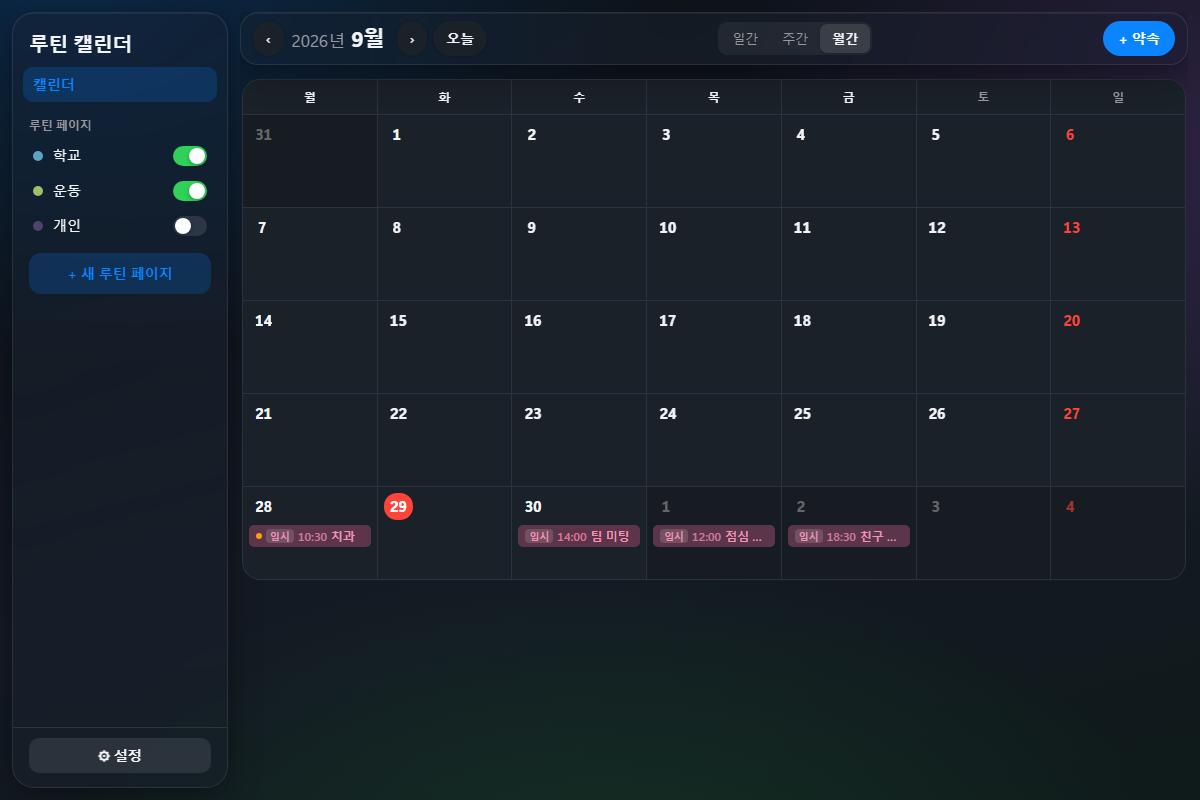
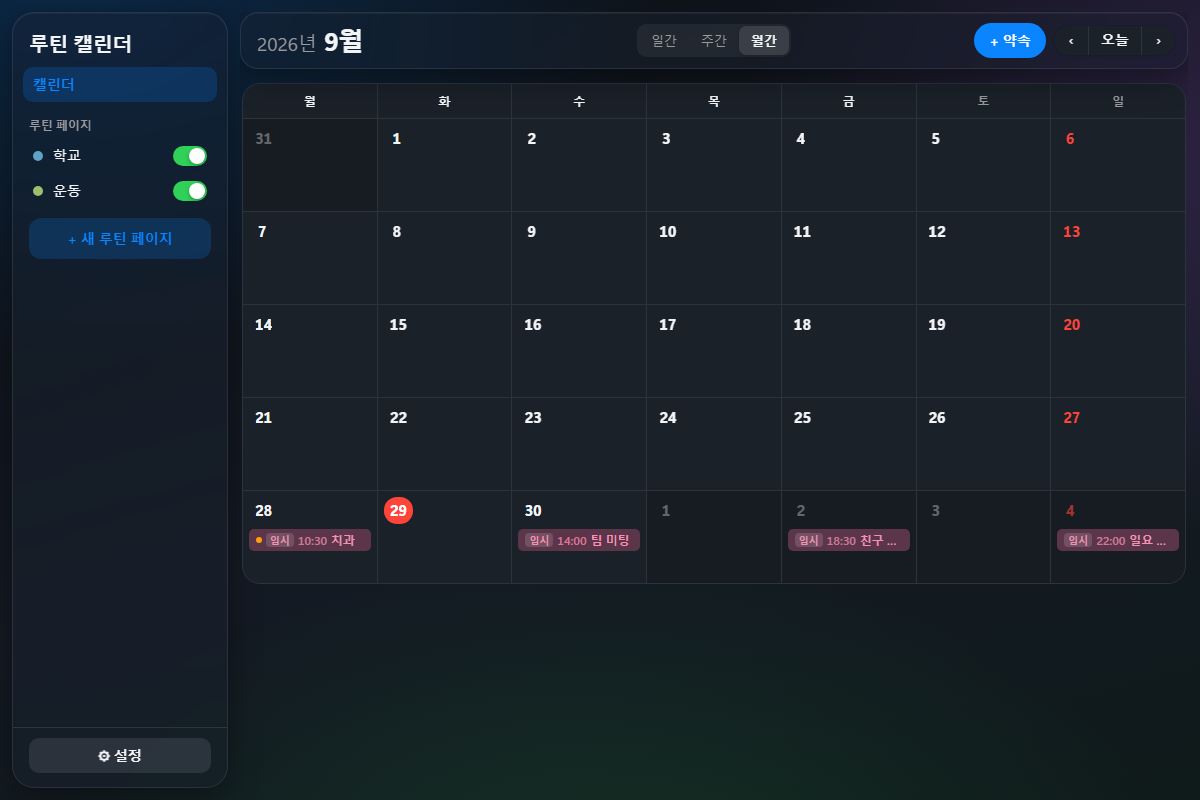
Top bar like macOS Calendar: big title left, view segment centered, ‹ 오늘 › group right
- 캘린더 상단바를 calBar() 하나로: grid 1fr auto 1fr. 왼쪽 큰 제목(월간 "2026년 10월", 주간은 그 주가 속한 달 "2026년 9월" / 두 달에 걸치면 "2026년 9월–10월", 일간 "10월 1일 수요일"), 가운데 일간/주간/월간, 오른쪽 ‹ 오늘 › 묶음(+ 약속은 그 왼쪽). 제목 길이와 무관하게 세그먼트 정중앙·화살표 오른쪽 끝 고정
- 주간 버튼 이름 "이번 주" → "오늘". 동작 변경 없음
- docs/design-review.md 4차 절, 스크린샷 갱신

diff --git a/styles.css b/styles.css
@@ -373,7 +373,7 @@ button[disabled]:active{transform:none}
 @media (prefers-color-scheme: dark){:root:not([data-theme="light"]) .mgrid .ev{--tint:30%;color:color-mix(in srgb,var(--ec) 70%,#fff)}:root:not([data-theme="light"]) .mgrid .ev .tag{background:rgba(255,255,255,.14)}:root:not([data-theme="light"]) .blk.evb{box-shadow:inset 3px 0 0 rgba(255,255,255,.3)}:root:not([data-theme="light"]) .blk.evb.cf{box-shadow:inset 3px 0 0 rgba(255,255,255,.3),inset 0 0 0 2px var(--warn)}}
 :root[data-theme="dark"] .mgrid .ev{--tint:30%;color:color-mix(in srgb,var(--ec) 70%,#fff)}:root[data-theme="dark"] .mgrid .ev .tag{background:rgba(255,255,255,.14)}:root[data-theme="dark"] .blk.evb{box-shadow:inset 3px 0 0 rgba(255,255,255,.3)}:root[data-theme="dark"] .blk.evb.cf{box-shadow:inset 3px 0 0 rgba(255,255,255,.3),inset 0 0 0 2px var(--warn)}
 
-/* 3차: 상단바는 [오늘][‹ ›] 제목 — ‹ › 한 쌍을 왼쪽에 고정하고 제목을 그 옆에(제목 길이가 바뀌어도 화살표 자리 불변). 약속 추가·편집은 데스크톱 폭에서 팝오버(기준점 옆, 화살표, 360px, 딤 없음) */
+/* 3차: 약속 추가·편집은 데스크톱 폭에서 팝오버(기준점 옆, 화살표, 360px, 딤 없음). 상단바 ‹ 오늘 › 묶음은 .navpair (4차 참고) */
 .bar .navpair{display:inline-flex;align-items:stretch;flex:none;background:var(--panel);border-radius:999px;box-shadow:0 1px 2px rgba(0,0,0,.08),0 0 0 1px rgba(0,0,0,.05);overflow:hidden}
 .bar .navpair button{background:transparent;box-shadow:none;border:0;border-radius:0;padding:6px 11px;min-width:34px;font-weight:600;font-size:14px;line-height:1.2;color:var(--ink)}
 .bar .navpair button+button{border-left:1px solid var(--grid-line)}
@@ -386,3 +386,11 @@ button[disabled]:active{transform:none}
 .md.pop .arrow{position:absolute;width:12px;height:12px;background:var(--panel);border:1px solid var(--line);transform:rotate(45deg);pointer-events:none}
 .md.pop[data-side="right"] .arrow{left:-7px;border-top:none;border-right:none}
 .md.pop[data-side="left"] .arrow{right:-7px;border-bottom:none;border-left:none}
+
+/* 4차: 캘린더 상단바(macOS): 왼쪽 큰 제목 · 가운데 세그먼트 · 오른쪽 ‹ 오늘 › 묶음(+ 약속은 그 왼쪽). grid 1fr auto 1fr 이라 제목 길이가 바뀌어도 세그먼트는 정중앙, 묶음은 오른쪽 끝 고정 */
+.bar.cal{display:grid;grid-template-columns:1fr auto 1fr;align-items:center;gap:8px}
+.bar.cal .bl{min-width:0;display:flex;align-items:center}
+.bar.cal .br{display:flex;align-items:center;justify-content:flex-end;gap:8px}
+.bar.cal h2{font-size:26px;margin:0 0 0 4px;overflow:hidden;text-overflow:ellipsis}
+.bar.cal h2 .yr{font-size:19px}
+.bar .navpair button.today{padding:6px 12px}

diff --git a/CLAUDE.md b/CLAUDE.md
@@ -108,7 +108,7 @@
 
 ## 룩 · 모션 (docs/ref 참고 이미지 기준)
 
-- 룩: iOS 이미지 = 컴포넌트(세그먼트·토글·알약 버튼·그룹 리스트 설정·굵은 제목), macOS 이미지 = 레이아웃(사이드바 216px, 헤더의 요일 작게 + 날짜 굵게, 오늘 빨간 원, 현재 시각 빨간 선 + 시각 pill, 작은 모서리·촘촘한 블록 여백, 긴 약속 블록엔 시간 줄). 상단바는 `[오늘/이번 주][‹ ›] 제목` 순서(`.navpair` 에 ‹ › 를 붙여 둠)라 제목 길이가 바뀌어도 화살표 자리가 고정된다. 규칙은 `styles.css` 맨 아래 "iOS / macOS 룩" 절에 모아 두었다(뒤에 와서 앞 규칙을 덮어씀)
+- 룩: iOS 이미지 = 컴포넌트(세그먼트·토글·알약 버튼·그룹 리스트 설정·굵은 제목), macOS 이미지 = 레이아웃(사이드바 216px, 헤더의 요일 작게 + 날짜 굵게, 오늘 빨간 원, 현재 시각 빨간 선 + 시각 pill, 작은 모서리·촘촘한 블록 여백, 긴 약속 블록엔 시간 줄). 캘린더 상단바(`calBar()`, `.bar.cal`)는 macOS 식 grid `1fr auto 1fr`: 왼쪽 큰 제목(월간 `2026년 10월`, 주간은 그 주가 속한 달 `2026년 9월`, 두 달에 걸치면 `2026년 9월–10월`(연도는 주 시작일), 일간 `10월 1일 수요일`), 가운데 일간/주간/월간 세그먼트, 오른쪽 `‹ 오늘 ›` 한 묶음(`.navpair`, 세 뷰 모두 버튼 이름은 오늘)과 그 왼쪽의 + 약속(월간·일간). 제목 길이가 바뀌어도 세그먼트는 정중앙, 화살표는 오른쪽 끝에 고정. 범례 칩은 그리드 위 왼쪽. 규칙은 `styles.css` 맨 아래 "iOS / macOS 룩" 절에 모아 두었다(뒤에 와서 앞 규칙을 덮어씀)
 - 월간 칩은 `eventStyle('chip')` 이 `--ec`(약속 색)만 넘기고 CSS 가 `color-mix` 로 옅은 배경(라이트 16%, 다크 30%) + 진한 글자를 만든다(iOS 칩). 시간축 뷰의 약속 블록은 채움 + 3px 왼쪽 띠(`inset box-shadow`). 월간 요일 헤더는 평일 진하게, `.we`(토·일) 흐리게
 - 모션은 의존성 없이 Web Animations API 로 구현(`anim()`). 스프링은 감쇠 진동(ζ=1−bounce, ω=2π: 정규화 시간 1 에서 안착)을 `linear()` 이징으로 32점 샘플링(`springEasing(bounce)`), 각 150~250ms. `prefers-reduced-motion` 이면 `anim()` 이 즉시 최종 상태를 적용한다. `anim()` 은 `finished` 와 `duration+40ms` 타이머 중 먼저 끝나는 쪽으로 resolve 한다(애니메이션 클록이 멈춘 환경에서도 제거 등 후속 작업 보장)
   - 뷰 전환(`transitionMain`): `render()` 에서 `viewKey`(일/주/월/페이지)가 바뀔 때만 나가는 `.main` 을 `.leaving` 으로 겹쳐 페이드아웃 + 새 화면 페이드인/8px 슬라이드. ‹ › 이동은 즉시
@@ -163,8 +163,8 @@
 
 1. **상태 · 충돌 로직**: 상수(`KEY`, `DAYS`, `PCOL`), 유틸(`toMin`, `fromMin`, `ymd`, `wd`, `overlap`…), `load`/`save`, `applyTheme`, 설정 기본값(`SETTINGS_DEFAULTS`, `cfg`, `dayOrder`, `weekStartOf`), 백업 검증·합치기(`validateBackup`, `mergeBackup`), 구글 연동(`G`, `googleConnect`/`googleDisconnect`, `ensureGoogleEvents`, `toLocalEvent`), `view` 상태, `activeItems`/`eventConflicts`/`pageConflicts`
 2. **렌더링**: `render()` 가 `#app` 을 통째로 다시 그린다. `h()` 로 DOM 생성. 사이드바(`캘린더` 항목 하나 + 루틴 페이지 목록 + 하단 고정 ⚙ 설정), 월간, 주간, 일간, 페이지 편집기, 드래그 그리드, 라벨 편집기
-   - 캘린더 뷰 전환은 상단바 세그먼트(`calSeg()`: 일간/주간/월간, `setCalView()`). 마지막 뷰는 `routine-cal-view` 키에 기억(`lastCalView()`), 백업과 무관
-   - 주간과 일간은 `timeGridBody(dates)` 를 공유한다(7열/1열). 일간(`renderDay`)은 `view.day`(YYYY-MM-DD) 기준으로 ‹ › 하루 이동·오늘·+ 약속. 활성 페이지가 없어도 빈 그리드는 항상 그리고 위에 얇은 `.notice` 한 줄만
+   - 캘린더 뷰 전환은 상단바 세그먼트(`calSeg()`: 일간/주간/월간, `setCalView()`). 세 캘린더 뷰의 상단바는 `calBar(title,{prev,next,today},addBtn)` 하나로 그린다. 마지막 뷰는 `routine-cal-view` 키에 기억(`lastCalView()`), 백업과 무관
+   - 주간과 일간은 `timeGridBody(dates)` 를 공유한다(7열/1열). 일간(`renderDay`)은 `view.day`(YYYY-MM-DD) 기준으로 ‹ › 하루 이동·오늘·+ 약속. 주간의 오늘 버튼은 이번 주로 간다. 활성 페이지가 없어도 빈 그리드는 항상 그리고 위에 얇은 `.notice` 한 줄만
    - 일간·주간의 빈 시간을 드래그하면 약속이 생긴다(편집 그리드와 같은 30분 스냅·고스트, 놓으면 `openEvent(null, 날짜, {startTime,endTime})`). 5px 미만 움직임은 클릭 = 그 슬롯부터 기본 길이. 루틴 블록은 배경(`.blk.rt`, 흐림)이라 그 위에서 시작해도 되고, 약속 블록은 pointerdown 을 막아 클릭하면 편집. 약속 블록의 드래그 이동·리사이즈는 없음
    - 약속 블록·칩은 구글/로컬 구분 없이 설정의 약속 색 하나를 쓴다(시간축 뷰는 채움 + 왼쪽 띠, 월간 칩은 옅은 배경; 툴팁에 [구글] 없음). 미연결 상태의 로컬 약속에만 작은 "임시" 배지. 활성 루틴과 겹치면 월간은 점, 시간축 뷰는 경고색 안쪽 테두리
    - 주간 뷰 겹침 배치(`layoutOverlaps`): 같은 요일에서 겹치는 루틴 블록은 이어져 겹치는 묶음별로 열을 배정해 폭을 n등분(구글 캘린더 방식). 3열 이상이면 라벨을 빼고 title 툴팁만. 겹치지 않는 블록은 기본 폭. 약속 블록은 대상 아님

diff --git a/docs/design-review.md b/docs/design-review.md
@@ -83,9 +83,20 @@
 | 등장 프레임 0·40·80·120ms | [motion-popover-light](shots/motion-popover-light.png) |
 | 상단바: 이번 주 / 12월 28일 – 1월 3일 / 12월 31일 (목) / 월간 — 화살표 자리 동일 | [bar-nav](shots/bar-nav.png) |
 
+## 4차: 상단바 재배치 (macOS 캘린더 기준)
+
+- 왼쪽 큰 제목(월간 `2026년 9월`, 주간 `2026년 9월` / 두 달에 걸치면 `2026년 9월–10월`, 일간 `9월 28일 월요일`), 가운데 세그먼트, 오른쪽 `‹ 오늘 ›` 한 묶음. 월간·일간의 + 약속은 묶음 왼쪽. grid `1fr auto 1fr` 이라 제목 길이와 무관하게 세그먼트는 정중앙, 묶음은 오른쪽 끝
+- 범례 칩은 그리드 위 왼쪽 그대로
+
+| 확인 | 그림 |
+|---|---|
+| 주간(두 달) · 12월 마지막 주(12월–1월) · 월간 · 일간 · 12월 31일 · 다크 — 화살표·세그먼트 자리 동일 | [bar-title](shots/bar-title.png) |
+| 주간 전체 | [week-light](shots/week-light.png) · [week-dark](shots/week-dark.png) |
+
 ## 검증 메모
 
 - 회귀 하네스 25종 전부 통과(`--force-prefers-reduced-motion` 으로 실행). 헤드리스 가상 시간에서는 애니메이션 클록이 돌지 않아 닫힘 애니메이션이 끝나지 않으므로, 동작 검증은 리듀스드 모션으로 돌리고 프레임 캡처는 `document.getAnimations()` 를 원하는 시각으로 멈춰 찍었다
 - `anim()` 은 `finished` 와 `duration+40ms` 타이머 중 먼저 끝나는 쪽으로 resolve 해서, 애니메이션 클록이 멈춘 환경에서도 시트 제거·나가는 화면 제거는 반드시 진행된다
 - 3차 하네스(팝오버 배치 8경우 + 화살표 위치 주간 14주·일간 10일·월간 12달 + 좁은 폭 시트 유지) 29건 통과, 기존 25종 회귀 통과
+- 4차: 같은 하네스에 제목 형식(세 뷰)·오늘 버튼·세그먼트 중앙 검사를 더해 34건 통과, 기존 25종 회귀 통과(주간·일간 제목 기대값만 갱신)
 - 범위 밖: 모바일 레이아웃, 햅틱·제스처 내비게이션, 아이콘 세트, 팝오버 드래그 이동
